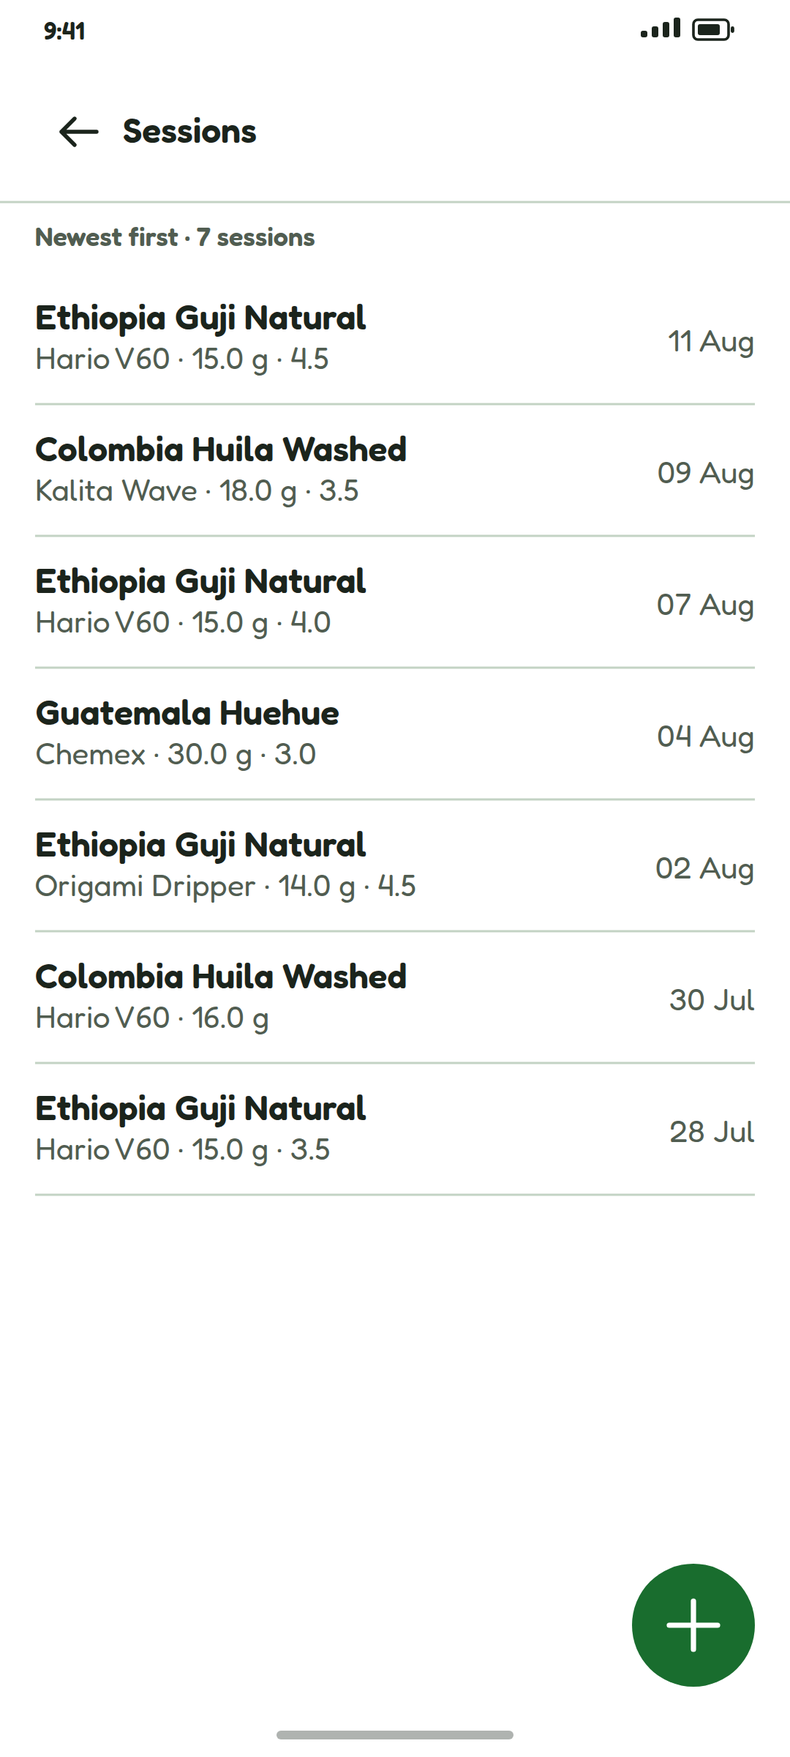
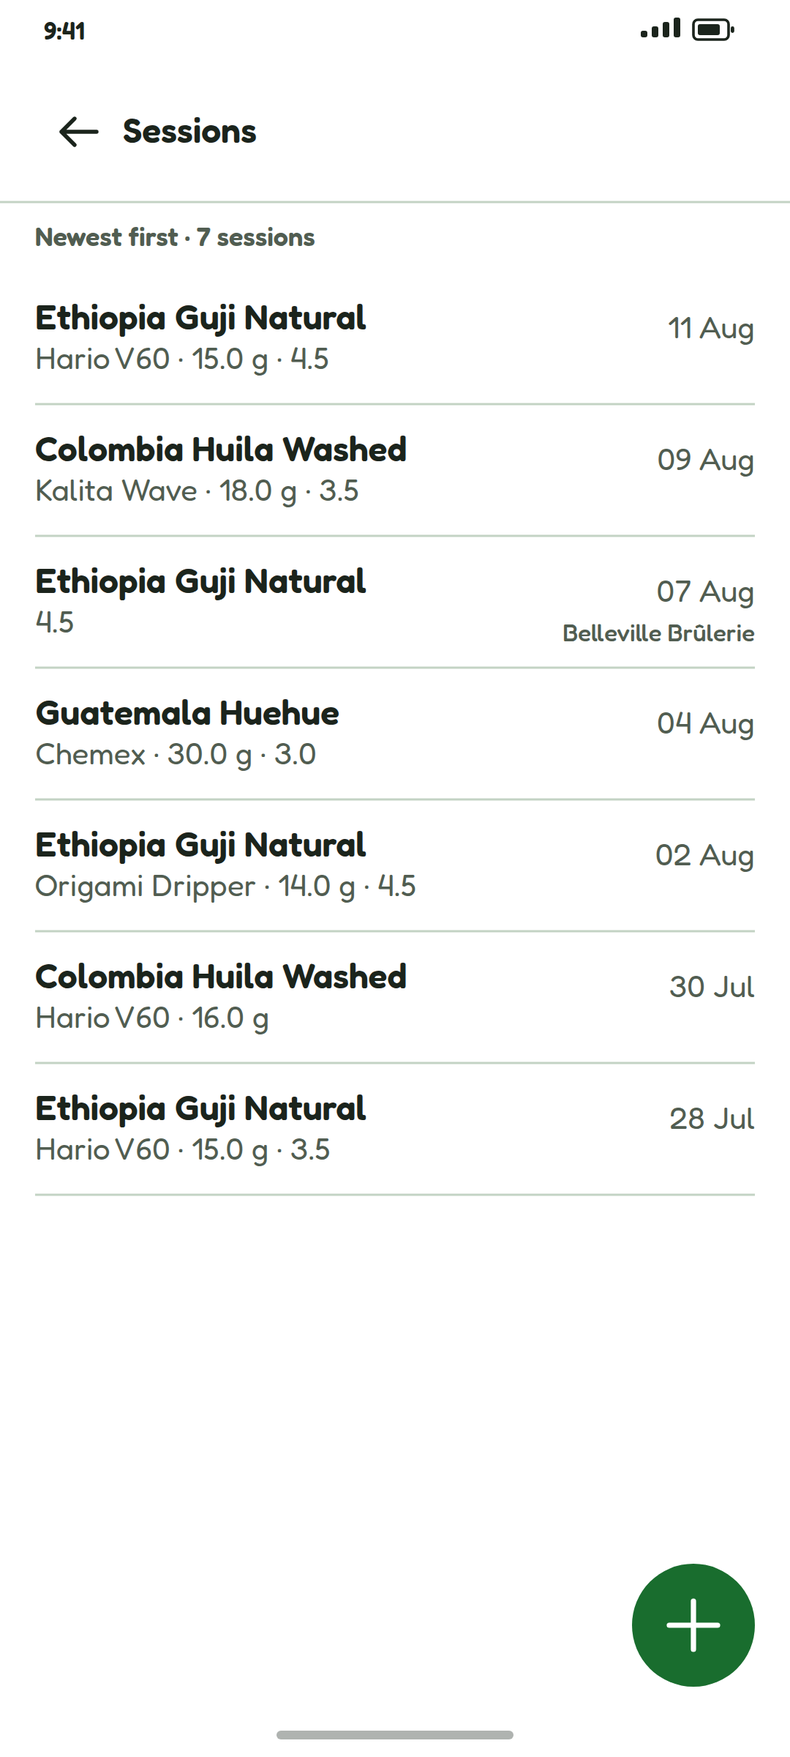
22.08.2026, re design can journery

diff --git a/coffee_android/plan/v1/screenshots.py b/coffee_android/plan/v1/screenshots.py
@@ -883,29 +883,43 @@ def spinner(c: Canvas, cx, cy, r=9, sw=2):
 # One consistent fixture across every frame, so the same log is visible from
 # Home, from the bean, and from the session list -- the way it would be on a
 # real phone. Brew counts, session rows and the Home average agree.
-# (name, roaster, origin, brews, process, roast day). The shelf card's second
-# line is now process + roast date -- BeanEntity.shelfMeta() -- so the sample
-# carries both; the roaster is still here because the card falls back to it and
-# +1.1's picker still shows it.
+# (name, roaster, origin, brews, process, roast day, café). The shelf card's
+# second line is now process + roast date -- BeanEntity.shelfMeta() -- so the
+# sample carries both; the roaster is still here because the card falls back to
+# it and +1.1's picker still shows it.
+#
+# The last element is BeanWithDetails.cafeName, drawn bottom-right since
+# 2026-08-21: the café a bean came home from, which is derived from the
+# earliest cup of it and so is set on exactly the bean CUPS says was drunk at
+# JOURNEY. It is None on the other three, which is the common case and the
+# reason the corner has to look right empty as well as filled.
 BEANS = [
-    ("Ethiopia Guji Natural", "Terres de Café", "Ethiopia", 4, "Natural", "28 Jul"),
-    ("Colombia Huila Washed", "Café Lomi", "Colombia", 2, "Washed", "20 Jul"),
-    ("Kenya Nyeri AB", "Belleville", "Kenya", 0, "Washed", "02 Aug"),
-    ("Guatemala Huehue", "Coutume", "Guatemala", 1, "Washed", "15 Jul"),
+    ("Ethiopia Guji Natural", "Terres de Café", "Ethiopia", 4, "Natural", "28 Jul",
+     "Belleville Brûlerie"),
+    ("Colombia Huila Washed", "Café Lomi", "Colombia", 2, "Washed", "20 Jul", None),
+    ("Kenya Nyeri AB", "Belleville", "Kenya", 0, "Washed", "02 Aug", None),
+    ("Guatemala Huehue", "Coutume", "Guatemala", 1, "Washed", "15 Jul", None),
 ]
 
 MY_FLAVOR = [3.7, 2.8, 2.0, 3.9, 2.6, 1.5, 1.9, 1.7, 0.7, 2.5, 2.3]
 BEAN_FLAVOR = [4.2, 3.1, 2.4, 4.0, 1.8, 1.2, 1.5, 1.0, 0.5, 2.2, 3.0]
 SESSION_FLAVOR = [4.5, 3.0, 2.5, 4.0, 1.5, 1.0, 1.5, 1.0, 0.5, 2.0, 3.5]
 
+# (bean name, meta line, day, café). The fourth element is
+# SessionWithBeanName.cafeName -- null on a brew made at home, which is six of
+# these seven. The one that is not is the cup CUPS lists: the Ethiopia drunk at
+# Belleville Brûlerie, scored 4.5, which is why that row's meta carries no
+# dripper. In the build that row is also painted `JourneyGround`; this frame
+# still draws flat rows with no card behind them, so the green is not
+# representable here and only the café's name is.
 SESSIONS = [
-    ("Ethiopia Guji Natural", "Hario V60 · 15.0 g · 4.5", "11 Aug"),
-    ("Colombia Huila Washed", "Kalita Wave · 18.0 g · 3.5", "09 Aug"),
-    ("Ethiopia Guji Natural", "Hario V60 · 15.0 g · 4.0", "07 Aug"),
-    ("Guatemala Huehue", "Chemex · 30.0 g · 3.0", "04 Aug"),
-    ("Ethiopia Guji Natural", "Origami Dripper · 14.0 g · 4.5", "02 Aug"),
-    ("Colombia Huila Washed", "Hario V60 · 16.0 g", "30 Jul"),
-    ("Ethiopia Guji Natural", "Hario V60 · 15.0 g · 3.5", "28 Jul"),
+    ("Ethiopia Guji Natural", "Hario V60 · 15.0 g · 4.5", "11 Aug", None),
+    ("Colombia Huila Washed", "Kalita Wave · 18.0 g · 3.5", "09 Aug", None),
+    ("Ethiopia Guji Natural", "4.5", "07 Aug", "Belleville Brûlerie"),
+    ("Guatemala Huehue", "Chemex · 30.0 g · 3.0", "04 Aug", None),
+    ("Ethiopia Guji Natural", "Origami Dripper · 14.0 g · 4.5", "02 Aug", None),
+    ("Colombia Huila Washed", "Hario V60 · 16.0 g", "30 Jul", None),
+    ("Ethiopia Guji Natural", "Hario V60 · 15.0 g · 3.5", "28 Jul", None),
 ]
 
 # Home's Brewing-activity grid, from the same log. `today` has to be fixed or
@@ -962,7 +976,7 @@ def home():
     y = top_bar(c, "Coffee Can", action_text="History")
     y = section(c, y, "Your beans", action="Search")
 
-    for name, roaster, origin, brews, process, roast in BEANS[:3]:
+    for name, roaster, origin, brews, process, roast, cafe in BEANS[:3]:
         card(c, y, 72)
         bag_tile(c, GUTTER + 12, y + 4, 64, origin[:2])
         tx = GUTTER + 12 + 64 + 14
@@ -978,6 +992,12 @@ def home():
                else C["surfaceContainer"], 4)
         c.text(tx + 8, y + 62, label, "labelSmall",
                C["onPrimaryContainer"] if brews else C["onSurfaceVariant"])
+        # BeanWithDetails.cafeName, bottom-right of the card and end-aligned:
+        # where the bag came from, on the one sample bean that came from
+        # anywhere. Same corner as the brew card's in `0.3`, on purpose.
+        if cafe:
+            c.text(W - GUTTER - 12, y + 64, cafe, "labelSmall",
+                   C["onSurfaceVariant"], "end")
         c.path(f"M{W - GUTTER - 24} {y + 31} l5 5 l-5 5", stroke=C["outline"], sw=1.6)
         y += 78
     y -= 6                      # the 6dp gap sits between cards, not after the last
@@ -1132,7 +1152,7 @@ def bean_detail_lower():
     y += 300 + 24
 
     y = section(c, y, "Sessions", action="New brew")
-    for name, meta, day in [s for s in SESSIONS if s[0] == BEAN["name"]][:3]:
+    for name, meta, day, _cafe in [s for s in SESSIONS if s[0] == BEAN["name"]][:3]:
         c.text(GUTTER, y + 22, f"{day} 2026", "titleMedium")
         c.text(GUTTER, y + 40, meta, "bodyMedium", C["onSurfaceVariant"])
         divider(c, y + 52)
@@ -1454,10 +1474,15 @@ def sessions():
     c.text(GUTTER, y + 20, f"Newest first · {len(SESSIONS)} sessions",
            "labelMedium", C["onSurfaceVariant"])
     y += 32
-    for name, meta, day in SESSIONS:
+    for name, meta, day, cafe in SESSIONS:
         c.text(GUTTER, y + 26, name, "titleMedium")
         c.text(GUTTER, y + 44, meta, "bodyMedium", C["onSurfaceVariant"])
-        c.text(W - GUTTER, y + 36, day, "bodyMedium", C["onSurfaceVariant"], "end")
+        c.text(W - GUTTER, y + 30, day, "bodyMedium", C["onSurfaceVariant"], "end")
+        # SessionWithBeanName.cafeName -- see the SESSIONS fixture for why the
+        # green ground the build also gives this row is not drawn here.
+        if cafe:
+            c.text(W - GUTTER, y + 48, cafe, "labelSmall",
+                   C["onSurfaceVariant"], "end")
         divider(c, y + 60)
         y += 60
     fab(c)
@@ -1493,7 +1518,7 @@ def which_bean():
     y = sheet(c, 300)
     c.text(24, y + 26, "Which bean is in the cup?", "headlineSmall")
     y += 46
-    for name, roaster, origin, _, _p, _r in BEANS[:4]:
+    for name, roaster, origin, _, _p, _r, _c in BEANS[:4]:
         bag_tile(c, 24, y + 6, 44, origin[:2])
         c.text(80, y + 24, name, "bodyLarge")
         c.text(80, y + 42, roaster, "bodyMedium", C["onSurfaceVariant"])
@@ -1527,7 +1552,7 @@ def sessions_background(c: Canvas):
     status_bar(c)
     y = top_bar(c, "Sessions", back=True)
     y += 32
-    for name, meta, day in SESSIONS[:4]:
+    for name, meta, day, _cafe in SESSIONS[:4]:
         c.text(GUTTER, y + 26, name, "titleMedium")
         c.text(GUTTER, y + 44, meta, "bodyMedium", C["onSurfaceVariant"])
         divider(c, y + 60)
@@ -1537,15 +1562,19 @@ def sessions_background(c: Canvas):
 def bean_block(c: Canvas, y, name=""):
     """`0.31`'s Bean details block (BeanDetailsSection), added 2026-08-21.
 
-    ONE FIELD AND A BUTTON. The eight other bean fields and the images strip
-    sit behind "More details" and are not drawn here, because on every path
-    this block was added for they start collapsed -- a vibe brew and a cup
-    both open on a bean row with nothing in it, and a brew of a known bean
-    keeps them shut too so that Brew details is not pushed off the fold."""
-    y = section(c, y, "Bean details")
-    y = field(c, y, "Bean name", name) + 4
-    c.text(GUTTER + 6, y + 14, "More details", "labelLarge", C["primary"])
-    return y + 28
+    ONE FIELD, AND THE SWITCH ON THE HEADING. The eight other bean fields and
+    the images strip sit behind "More details" and are not drawn here, because
+    on every path this block was added for they start collapsed -- a vibe brew
+    and a cup both open on a bean row with nothing in it, and a brew of a
+    known bean keeps them shut too so that Brew details is not pushed off the
+    fold.
+
+    Since 2026-08-21 that control is `section()`'s own trailing action rather
+    than a text button under the field, and it is a toggle: open, it reads
+    "Less details". Collapsed is the state every frame here draws."""
+    y = section(c, y, "Bean details", action="More details")
+    y = field(c, y, "Bean name", name)
+    return y + 8
 
 
 def brew_background(c: Canvas):
@@ -1592,7 +1621,11 @@ def brew():
                       ("Filter", "Hario V60 02…"), x=ix, w=iw) + 10
     iy = capsule_pair(c, iy, ("Dose (g)", "15.0"),
                       ("Water (g)", "250"), x=ix, w=iw) + 10
-    iy = capsule_pair(c, iy, ("Water °C", "93"),
+    # Water alkalinity where Water °C used to be (2026-08-21). The temperature
+    # column is still in `sessions` and still round-trips through the draft; it
+    # simply has no input any more, and the pour stages below still carry a
+    # temperature per pour, which is where one belongs.
+    iy = capsule_pair(c, iy, ("Water alkalinity", "40"),
                       ("Water ppm", "72"), x=ix, w=iw)
     y += ch + 20
 

diff --git a/coffee_android/plan/v1/check_design.py b/coffee_android/plan/v1/check_design.py
@@ -251,6 +251,21 @@ for node in ast.walk(tree):
                 lits.add(ast.literal_eval(arg))
             except Exception:
                 pass
+# Copy handed to a *helper* rather than drawn directly. `section(action=...)`,
+# `top_bar(action_text=...)` and `field(placeholder=...)` all end in a c.text()
+# eventually, but the literal sits at the call site as a keyword and the walk
+# above only reads positional arguments of `text`/`wrap`. Ten strings were
+# invisible to this check until 2026-08-21, among them every section heading's
+# trailing action -- which is where "More details" moved that day, and losing
+# a string from the check by relocating it in the simulator is precisely the
+# silent gap this file exists to close.
+HELPER_COPY_KWARGS = ("action", "action_text", "caption", "placeholder")
+for node in ast.walk(tree):
+    if isinstance(node, ast.Call):
+        for kw in node.keywords:
+            if kw.arg in HELPER_COPY_KWARGS and isinstance(kw.value, ast.Constant) \
+                    and isinstance(kw.value.value, str):
+                lits.add(kw.value.value)
 for node in ast.walk(tree):
     if isinstance(node, (ast.Tuple, ast.List)):
         for e in node.elts:

diff --git a/coffee_android/plan/v1/design-spec.md b/coffee_android/plan/v1/design-spec.md
@@ -709,9 +709,21 @@ shipped state is the "no feed yet" branch.
 ### 8.3 `00` Home
 
 Bean shelf (each row: `BeanIcon`, name, process · roast date, brew-count pill,
-chevron), "See all N beans", **Brewing activity** contribution calendar, and
+chevron, and — bottom-right, when there is one — **the café the bean came home
+from**), "See all N beans", **Brewing activity** contribution calendar, and
 **My flavor** — an eleven-axis radar averaged across every session, labelled
 with the session count.
+
+**The café name is derived, never stored** (2026-08-21, direct product
+request: a bean added from Can travel should say so here).
+`BeanWithDetails.cafeName` is a correlated subquery for the earliest cup of
+that bean whose journey still exists — earliest because the question is where
+the bag came *from*, not where it was last drunk. `beans` gains no column:
+the edge already exists on `sessions.journeyId` (§9), and a copy on the bean
+would be both a cached derivation (`coupling-spec.md` §4.2) and a new column
+on a table the sync bundle carries. Null is the common case, and deleting a
+journey takes the label with it, which is the same orphaning `sessions.journeyId`
+describes.
 
 Empty state: the **pour-over mascot** at 160dp — the same figure `0.3`'s empty
 state uses, replacing the brand lockup on 2026-08-19 (the lockup opens the
@@ -929,6 +941,15 @@ point: a green row reads as "one of those" rather than as a status this list
 invented. Nothing else changes — same height, same glyph, same divider —
 because a cup is not a different *kind* of record, just one drunk elsewhere.
 
+**And it names the café, bottom-right** (2026-08-21, direct product request).
+The green already says *that* this was drunk out; `SessionWithBeanName.cafeName`
+— the `journeys` row resolved by the same query that supplies the bean's name,
+`LEFT JOIN` so the six brews in seven that were made at home are not dropped —
+says *which*, which is the half worth reading back a month later. Same corner
+and same treatment as Home's shelf card (§8.3), because the two cards are
+deliberately the same object at the same `ShelfCardHeight`. Null on a brew
+made at home and on a cup whose café has been deleted.
+
 Every brew across every bean, newest first, with the dripper glyph at 64dp,
 dose, score and extraction verdict. Header states the count. Empty state and
 delete are both built. A **pushed** destination since 2026-08-19, reached from
@@ -1119,9 +1140,17 @@ away again through the same `leaveWithoutSaving` sweep.
 
 Everything `journeyId` changes is a label or a column: **New cup** as the
 title fallback, **Save this cup** on the button, **Delete this cup?** on the
-delete prompt, "Take a memory of the café" on the photo sheet (§8.6b), the
-`journeyId` written onto the session, and no Ask AI. The form is the same
-form.
+delete prompt, **Take a shot** on the photo sheet, the `journeyId` written
+onto the session, and no Ask AI. The form is the same form.
+
+*Three wordings for one sheet, and the third is not redundant* (2026-08-21,
+direct product request). `PhotoSourceSheet`'s take-label follows the table the
+picture lands in, not the screen it was raised from. This sheet hangs off the
+**Bean details** block and writes a `BeanImageEntity`, so `+1.1`'s "Take a
+memory of the café" — which really does write `journey_images` (§8.6b) — was
+naming the wrong subject here; and "Take a photo of the bag" names an object
+that is usually not on the table at a café. **Take a shot** is neither, and it
+keeps the sheet honest about what it is attaching the picture to.
 
 **The save button waits for a name.** `+1.2`'s own rule, kept: a cup is a
 coffee you are recording because of what it was, and a nameless one is a row
@@ -1187,17 +1216,35 @@ without saving; an explicit save does not.
 ### 8.8 `0.31` Brew Session Detail
 
 One brew, created or edited. **Bean details** (see below), then brew fields
-(dripper, grinder, grind size, filter, dose, water, temperature, ppm,
+(dripper, grinder, grind size, filter, dose, water, **alkalinity**, ppm,
 humidity, total time), **Pour stages** with its own editor sheet, then **How
 was it?** — Score `ValueBar`, `ExtractionBar`, note — then **Flavor**: the
 radar over eleven `ValueBar` sliders.
 
+**Water alkalinity sits where Water °C used to** (2026-08-21, direct product
+request). The temperature column stays in `sessions` and still round-trips
+through the draft (§9); it simply has no input any more, and the pour stages
+below still ask per pour — which is where a temperature that changes mid-brew
+was always recorded.
+
 **Bean details sits above Brew details** (`BeanDetailsSection`, 2026-08-21,
-direct product request). It shows **one** input, the bean's name, and a
-**More details** text button; pressing that reveals `0.1`'s own
-`BeanFieldsGrid` (origin, variety, altitude, roaster, producer, process, roast
-date, note) and `ImagesStrip` beneath it, with the photo sheet and the
-roast-date picker wired exactly as on `0.1`.
+direct product request). It shows **one** input, the bean's name, and
+**More details** as the section heading's own trailing action; pressing that
+reveals `0.1`'s own `BeanFieldsGrid` (origin, variety, altitude, roaster,
+producer, process, roast date, note) and `ImagesStrip` beneath it, with the
+photo sheet and the roast-date picker wired exactly as on `0.1`.
+
+**It is a toggle, and it lives on the heading** (2026-08-21, direct product
+request). Open, the action reads **Less details** and a second press folds the
+block away again. Both halves reverse the first cut of this block, which put a
+full-width text button under the name field and made the reveal one-way on the
+argument that a control able to hide fields someone has typed into can lose
+them from view. Nothing is lost: the draft is held by the screen, not by the
+composables, so collapsing and reopening returns every value — while having no
+way back meant one exploratory tap pushed Brew details down the page for the
+rest of the session. `SectionHeader` already carries a trailing action slot,
+and using it is what makes the label read as the heading's own switch rather
+than as one more control in the form's stack.
 
 *Why a brew form edits a bean at all:* two of the ways in arrive on a bean with
 no name — vibe brewing creates a blank row so the session has something to
@@ -1211,8 +1258,9 @@ commonest way in.
 The bean draft follows the same discipline as the session beside it — typing
 reaches Room only on Save, it counts towards `dirty`, and it locks with the
 rest of the form in view mode (`BeanFieldsGrid`/`ImagesStrip` take an
-`enabled` flag for this; while locked, "More details" and the "Add img" tile
-are absent rather than dead). The one exception is a photograph, which is a
+`enabled` flag for this; while locked, the details toggle and the "Add img"
+tile are absent rather than dead — a block already open stays open and simply
+reads as text, so what the lock hides is the control, not the fields). The one exception is a photograph, which is a
 file plus a row and is attached immediately — the exception `0.1` and `+1.1`
 already make.
 
@@ -1316,9 +1364,11 @@ Complete and unwired — see §1.
 
 Room, mirroring `coffee-can`'s SQLite schema column-for-column — **except the
 last two tables, which have no desktop counterpart at all**.
-**`version = 5`, `exportSchema = true`**, with named `MIGRATION_1_2`,
-`MIGRATION_2_3`, `MIGRATION_3_4` and `MIGRATION_4_5`.
-`fallbackToDestructiveMigration()` is banned.
+**`version = 8`, `exportSchema = true`**, with named `MIGRATION_1_2` through
+`MIGRATION_7_8`. `fallbackToDestructiveMigration()` is banned, and every
+migration is **additive only** — which is why two sets of columns are still in
+the schema with nothing reading them (`journeys.latitude`/`longitude`, §8.6b,
+and `sessions.waterTempC`, below).
 
 Eight entities:
 
@@ -1327,6 +1377,8 @@ Eight entities:
 | `beans` | identity + provenance, `status` (`draft`/`saved`), `flavorSource` (`auto`/`manual`), and **eleven flavour columns** |
 | `bean_images` | `position`, `filePath`, `rotation` |
 | `sessions` | brew parameters, `score`, `extraction`, note, **the same eleven flavour columns**, and `flavorNotes` |
+| `sessions.waterAlkalinity` | carbonate hardness, ppm as CaCO₃ — the Brew details field that took Water °C's place (2026-08-21, direct product request). **Beside `waterPpm`, not instead of it**: ppm is total dissolved solids, alkalinity is buffering, and two waters at the same TDS read completely differently in the cup. Phone-only, like `waterG` and `waterTempC` — the desktop's `brew_sessions` has no column, so the bundle does not carry it |
+| `sessions.waterTempC` | **retained, no longer surfaced** — the field the line above replaced. Dropping it means rebuilding the table and destroying temperatures a user typed, with no server-side copy to restore from. Unlike `journeys.latitude` it is still *carried*: `SessionDraft` hydrates it and writes it back untouched, so re-saving an older brew keeps it. A pour's temperature was never this column — `session_stages.waterTempC` is, and it is unaffected |
 | `session_stages` | one pour each |
 | `catalogue_items` | crawler cache |
 | `news_items` | feed cache — four fields, no snippet column |
@@ -1478,7 +1530,7 @@ the vision endpoint wanted anyway. Covered by instrumented tests.
 | Layer | Tool | Covers |
 | --- | --- | --- |
 | Design tokens | `check_design.py` | 36 colour, 11 type, 5 shape tokens against `../variants.py` |
-| Rendering | Paparazzi, `app/src/test/…/screenshot/` | 68 goldens in `app/src/test/snapshots/images/` — real compiled Compose through layoutlib, no emulator |
+| Rendering | Paparazzi, `app/src/test/…/screenshot/` | 74 goldens in `app/src/test/snapshots/images/` — real compiled Compose through layoutlib, no emulator |
 | Geometry | `ContributionCalendarGeometryTest`, `CropToFitTest` | layout maths |
 | Ingest | `ImageIngestTest`, `ImageIngestOrientationTest` | EXIF strip, orientation |
 | Insets, gesture, share targets | **a physical device only** | §4.3 |

diff --git a/coffee_android/plan/v1/coupling-spec.md b/coffee_android/plan/v1/coupling-spec.md
@@ -123,7 +123,7 @@ Keyed by what you edited. "Verify" columns are commands in §6.
 | --- | --- | --- |
 | A colour / type / shape value in `ui/theme/Theme.kt` | Nothing — **`../variants.py` `PURE_GREEN` is the source of truth**, not Theme.kt. Change the deck first, or record the divergence in `check_design.py`'s `ACCEPTED_DEVIATIONS` *with a rationale written into `Theme.kt`* | `V1`, then `V2` |
 | A token in `../variants.py` | `Theme.kt`, and re-render the deck (`python3 ../scheme_e.py`) | `V1`, `V2` |
-| Anything visual at all | 72 Paparazzi goldens re-record | `V2` |
+| Anything visual at all | 74 Paparazzi goldens re-record | `V2` |
 
 `ACCEPTED_DEVIATIONS` is **not** a suppression list: an entry without a
 decision recorded in `Theme.kt` is drift wearing a disguise. It still prints
@@ -134,7 +134,7 @@ both values on every run. Today it holds exactly one entry (`surface`).
 | You changed | Also move | Verify |
 | --- | --- | --- |
 | Any user-facing string | `res/values/strings.xml` **and** `values-fr/` **and** `values-zh/` | `V3` |
-| A string the mock deck also draws | `screenshots.py` — `check_design.py` diffs 93 strings against it | `V1` |
+| A string the mock deck also draws | `screenshots.py` — `check_design.py` diffs 102 strings against it | `V1` |
 | Added a new string | All three locales; goldens; `LocaleScreenshotTest` renders all three | `V2`, `V3` |
 
 Current parity: **498** keys in `values/`, **496** in each of `values-fr/` and
@@ -157,7 +157,7 @@ and invisible to two thirds of the users.
 
 | You changed | Also move | Verify |
 | --- | --- | --- |
-| `data/Entities.kt` — added/renamed a column | Room `version` (currently **6**) + a new `Migration`; `data/Daos.kt`; **`data/SyncBundle.kt`** export *and* import; `../../../coffee_agent/sync_tools.py` `_BEAN_FIELDS`/`_SESSION_FIELDS`; `coffee/src/coffee_can/db.py` schema; `design-spec.md` §9 | `V4`, `V5` |
+| `data/Entities.kt` — added/renamed a column | Room `version` (currently **8**) + a new `Migration`; `data/Daos.kt`; **`data/SyncBundle.kt`** export *and* import; `../../../coffee_agent/sync_tools.py` `_BEAN_FIELDS`/`_SESSION_FIELDS`; `coffee/src/coffee_can/db.py` schema; `design-spec.md` §9 | `V4`, `V5` |
 | …but a column on **`journeys`** | only the first three. `journeys` has no desktop counterpart and is **not** in the sync bundle, so the two Python legs of that row do not apply — `address`/`barista` (v6) touched Room, the entity and the screen and nothing else | `V4` |
 | The bundle format | `SyncBundle.VERSION` **and** `sync_tools.BUNDLE_VERSION` — they must stay equal | `V5` |
 | A DAO query | Whether `CoffeeRepository` should expose it at all; whether `TestFakes.kt` needs the new method | `V2` |
@@ -307,7 +307,7 @@ and the Gradle tasks must run inside the module because Gradle owns them.
 ```bash
 # ============ from coffee_android/plan/v1/  (the audit side) ============
 
-# V1 — design tokens + mock copy fidelity (36 colour, 11 type, 5 shape, 93 strings)
+# V1 — design tokens + mock copy fidelity (36 colour, 11 type, 5 shape, 102 strings)
 python3 check_design.py            # must exit 0
 
 # V1b — redraw the simulator frames after any copy or visual change
@@ -315,9 +315,9 @@ python3 screenshots.py             # -> screenshots/*.png
 
 # ============ from coffee_android/v1/  (the module) ============
 
-# V2 — Paparazzi goldens (96).  SEE THE TWO WARNINGS BELOW.
+# V2 — Paparazzi goldens (74 images, 96 @Test).  SEE THE TWO WARNINGS BELOW.
 export JAVA_HOME=/usr/lib/jvm/java-17-openjdk-amd64   # NOT the default JDK -- see below
-./gradlew :app:verifyPaparazziDebug                 # verify against the 96 goldens
+./gradlew :app:verifyPaparazziDebug                 # verify against the 74 goldens
 ./gradlew :app:recordPaparazziDebug                 # re-record, then READ the diff
 ./gradlew :app:testDebugUnitTest                    # goldens + geometry + ingest tests
 

diff --git a/coffee_android/plan/v1/README.md b/coffee_android/plan/v1/README.md
@@ -29,7 +29,7 @@ passes the design spec and fails the coupling spec.
 
 ```bash
 python3 check_design.py      # exit 0 = no drift.  36 colour + 11 type + 5 shape
-                             # tokens against ../variants.py, and 93 strings
+                             # tokens against ../variants.py, and 102 strings
                              # against the module's Kotlin/strings.xml/coffee_server
 python3 screenshots.py       # redraw the simulator frames -> screenshots/*.png
 python3 screenshots.py --svg # keep the vector source alongside
